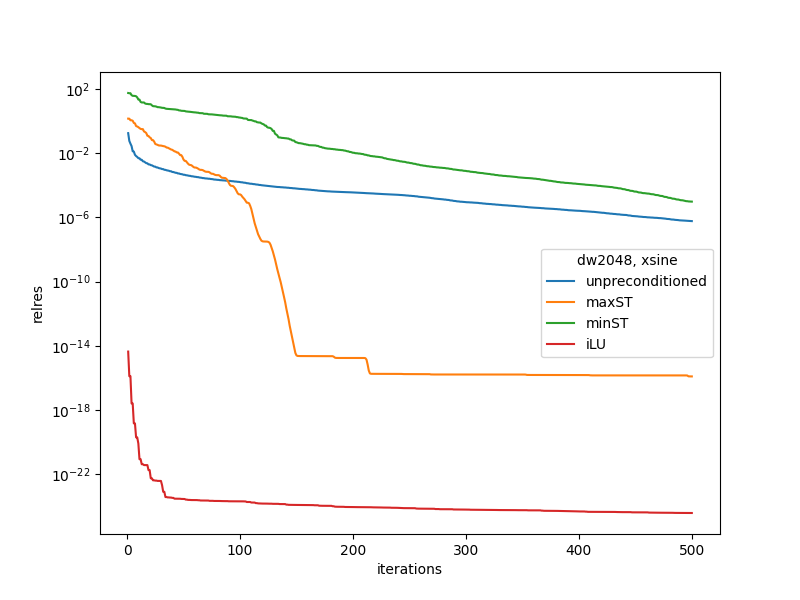
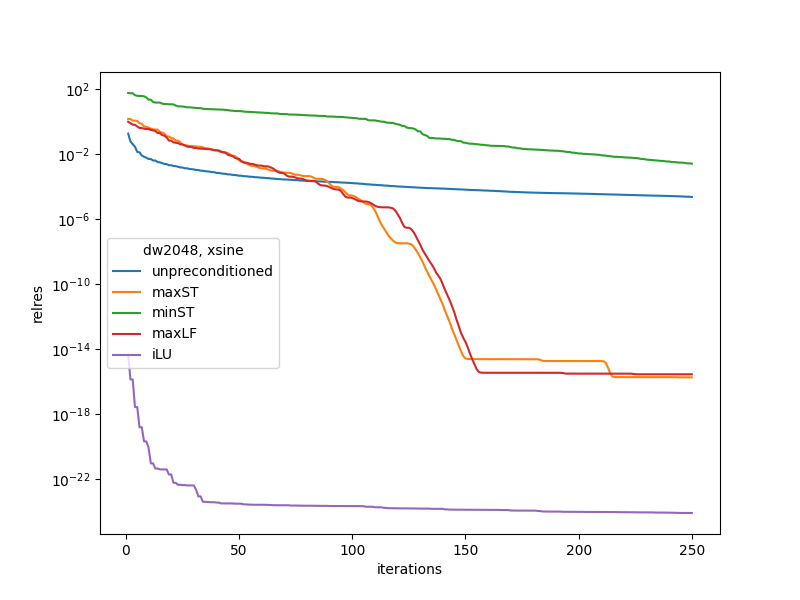
update plots

diff --git a/python/graph.py b/python/graph.py
@@ -222,7 +222,7 @@ def run_trial_precond(mtx, x, maxiter=100, title=None, title_x=None, custom=None
         ST = spanning_tree_precond(mtx)
         LF = linear_forest_precond(mtx)
 
-    sc = []
+    sc = [1]
     preconds = [None]
 
     # 1) Maximum spanning tree preconditioner
@@ -231,32 +231,40 @@ def run_trial_precond(mtx, x, maxiter=100, title=None, title_x=None, custom=None
     # TODO: factorize the spanning tree conditioner "layer by layer"
     P1 = ST['max_spanning_tree_adj']
     sc.append(s_coverage(mtx, P1))
+    
     M1 = lu_sparse_operator(P1)
     preconds.append(M1)
+
 
     # 2) Minimum spanning tree preconditioner
     P2 = ST['min_spanning_tree_adj']
     sc.append(s_coverage(mtx, P2))
+
     M2 = lu_sparse_operator(P2)
     preconds.append(M2)
+
     
     # 3) Maximum linear forest preconditioner
     # Note: not permuted to tridiagonal system
     sc.append(s_coverage(mtx, LF))
     M3 = lu_sparse_operator(LF)
     preconds.append(M3)
+
     
     # 4) iLU(0)
     sc.append(None)
     M4 = lu_sparse_operator(mtx, inexact=True)
     preconds.append(M4)
 
+
     # 5) Custom preconditioner    
     if custom is not None:
         P5 = mmread(custom)
         sc.append(None)
+
         M5 = lu_sparse_operator(P5)
         preconds.append(M5)
+
 
     # Use logarithmic scale for relative residual (y-scale)
     fig, ax = plt.subplots()
@@ -280,9 +288,9 @@ def run_trial_precond(mtx, x, maxiter=100, title=None, title_x=None, custom=None
         if i == 2:
             label = 'minST'
         if i == 3:
-            label = 'iLU'
-        if i == 4:
             label = 'maxLF'
+        if i == 4:
+            label = 'iLU'
         if i == 5:
             label = 'custom'
 
